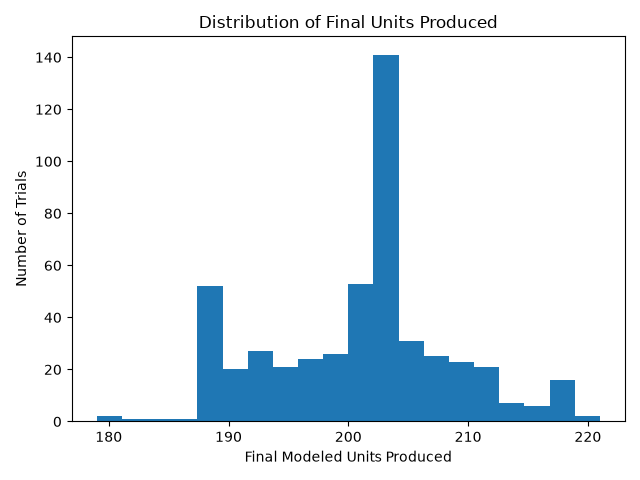
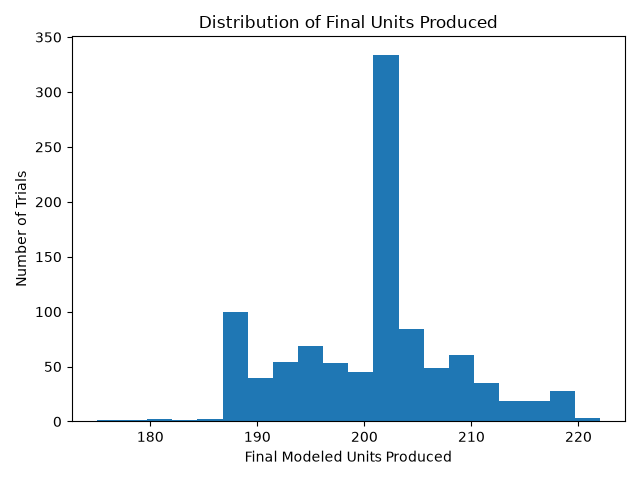
Final Runs
finalized experiment runner, ran trials, was pretty cool

diff --git a/src/run_experiment.py b/src/run_experiment.py
@@ -1,61 +1,133 @@
 from pathlib import Path
+import time
 
-from experiments import run_monte_carlo, export_results_to_csv
+import simpy
+
+from model_builder import build_model_from_configuration
+from simulation import SimulationRunner
+from experiments import run_monte_carlo, export_results_to_csv, summarize_monte_carlo
 
 from plotting import plot_distribution
 
+#================================================#
+# paths
+#================================================#
 
 project_root = Path(__file__).resolve().parents[1]
 
 nodes_path = project_root / "data" / "nodes.csv"
+
 links_path = project_root / "data" / "links.csv"
+
 recipes_path = project_root / "data" / "recipes.csv"
 
-results_directory = (project_root / "results")
-results_directory.mkdir(exist_ok=True)
+results_directory = project_root / "results"
+
+plots_directory = results_directory / "plots"
+
+results_directory.mkdir(parents=True, exist_ok=True)
+
+plots_directory.mkdir(parents=True, exist_ok=True)
+
+#================================================#
+# settings
+#================================================#
+
+SIMULATION_DAYS = 365
+NUMBER_OF_TRIALS = 1000
+BASE_SEED = 1000
+DAILY_DEMAND = 1
+
+#================================================#
+# deterministic base
+#================================================#
+
+print()
+print("Running deterministic baseline for sim...")
+
+deterministic_model = (
+    build_model_from_configuration(
+    nodes_path, links_path, recipes_path
+    )
+)
+
+deterministic_env = simpy.Environment()
+
+deterministic_runner = SimulationRunner(
+    deterministic_model, deterministic_env,
+    stochastic=False, daily_demand=DAILY_DEMAND
+)
+
+deterministic_runner.run(until=SIMULATION_DAYS)
+
+deterministic_summary = (deterministic_runner.get_summary())
+
+deterministic_summary["scenario"] = ("deterministic baseline")
+
+deterministic_output_path = (
+    results_directory / "determinstic_baseline_summary.csv"
+)
+
+export_results_to_csv([deterministic_summary], deterministic_output_path)
+
+print("Deterministic baseline complete.")
+
+#================================================#
+# monte carlo base
+#================================================#
+
+print()
+print(
+    f"Running {NUMBER_OF_TRIALS} Monte Carlo trials..."
+)
+
+start_time = time.perf_counter()
 
 results = run_monte_carlo(
     nodes_path,
     links_path,
     recipes_path,
-    simulation_days=365,
-    number_of_trials=500,
-    base_seed=1000
+    simulation_days=SIMULATION_DAYS,
+    number_of_trials=NUMBER_OF_TRIALS,
+    base_seed=BASE_SEED,
+    daily_demand=DAILY_DEMAND
 )
+
+end_time = time.perf_counter()
+
+runtime_seconds = end_time - start_time
+
+print("Monte Carlo trials in progress...")
+
+#================================================#
+# export trial results
+#================================================#
+
+runs_output_path = results_directory / "week4_stochastic_baseline_runs.csv"
+
+export_results_to_csv(results, runs_output_path)
+
+#================================================#
+# aggregate statistics
+#================================================#
 
 metric_names = [
     "final_units_produced",
     "service_level",
     "ending_backlog",
+    "a1_throughput_per_day",
     "disruptions"
 ]
 
-output_path = (results_directory / "stochastic_runs.csv")
-export_results_to_csv(results,output_path)
+summary_results = (summarize_monte_carlo(results, metric_names))
 
-for result in results:
+summary_output_path = results_directory / "week4_stochastic_baseline_summary.csv"
 
-    print(
-        result["trial_number"],
-        result["random_seed"],
-        result["final_units_produced"],
-        result["service_level"],
-        result["disruptions"]
-    )
+export_results_to_csv(summary_results, summary_output_path)
 
-from experiments import (
-    run_monte_carlo,
-    summarize_monte_carlo,
-    export_results_to_csv
-)
-
-summary_results = summarize_monte_carlo(results, metric_names)
-
-summary_path = (results_directory / "stochastic_summary.csv")
-
-export_results_to_csv(summary_results,summary_path)
-
-plots_directory = results_directory / "plots"
+#================================================#
+# distribution plots
+#================================================#
 
 plot_distribution (
     results, 
@@ -72,3 +144,71 @@ plot_distribution(
     "Distribution of Service Level",
     "Service Level"
 )
+
+#================================================#
+# experiment summary
+#================================================#
+
+print()
+print("Week 4 Monte Carlo baseline complete.")
+print("-------------------------------------")
+
+print(f"Simulation Horizon: {SIMULATION_DAYS} days.")
+
+print(f"Trials: {NUMBER_OF_TRIALS}")
+
+print(f"Base Seed: {BASE_SEED}")
+
+print(f"Final Trial Seed: {BASE_SEED + NUMBER_OF_TRIALS - 1}")
+
+print(f"Runtime: {round(runtime_seconds, 2)} seconds")
+
+print(f"Trials: {NUMBER_OF_TRIALS}")
+
+#================================================#
+# final KPI resuts
+#================================================#
+
+print()
+print("Final Results")
+print("-------------")
+
+for row in summary_results:
+
+    print()
+    print(f"Metric: {row["metric"]}")
+
+    print(f"Mean: {row["mean"]}")
+
+    print(f"5th Percentile: {row["percentile_5"]}")
+
+    print(f"Median: {row["median"]}")
+
+    print(f"95th Percentile: {row["percentile_95"]}")
+
+    print(f"Minimum: {row["minimum"]}")
+
+    print(f"Maximum: {row["maximum"]}")
+
+#================================================#
+# output locations
+#================================================#
+
+print()
+print("Files written to:")
+
+print(deterministic_output_path)
+
+print(runs_output_path)
+
+print(summary_output_path)
+
+print(plots_directory / "final_units_distribution.png")
+
+print(plots_directory / "service_level_distribution.png")
+
+#================================================#
+# end
+#================================================#
+
+print("Simulation Complete.")
